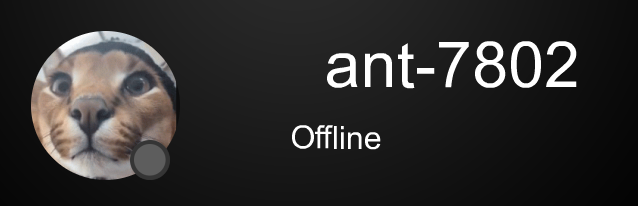
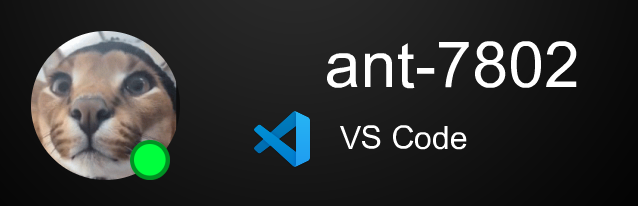
fix alignment

Changed region(s): [[0.3871, 0.5243, 0.7445, 0.8155], [0.1787, 0.6699, 0.268, 0.8738]]

diff --git a/server.js b/server.js
@@ -27,10 +27,10 @@ if (!fs.readFileSync(".env") || !env.key) {
     profile.circle();
 
     async function imgen(colorcircle,icon,title) {
-        var background = await Jimp.read("assets/background.png")
+        var background = await Jimp.read("assets/background.png");
         await background.composite(profile, 30, 30);
         await background.print(fontsans64, 325, 30, `${login}`);
-        await background.print(fontsans32, 290, 120, title);
+        await background.print(fontsans32, 340, 120, title);
         await background.composite(colorcircle,130,140);
         if (icon) {
             await background.composite(icon,250,107);
@@ -61,7 +61,6 @@ if (!fs.readFileSync(".env") || !env.key) {
     setInterval(() => {
         timer += 1;
         if (timer == 60) {
-            console.log("SETTING OFFLINE!")
             imgen(graycircle,null,"Offline")
         }
     }, 1000);

diff --git a/client.js b/client.js
@@ -42,5 +42,5 @@ async function loop() {
         })
     });
 }
-//loop()
-setInterval(loop, 10000);
+loop()
+//setInterval(loop, 10000);
